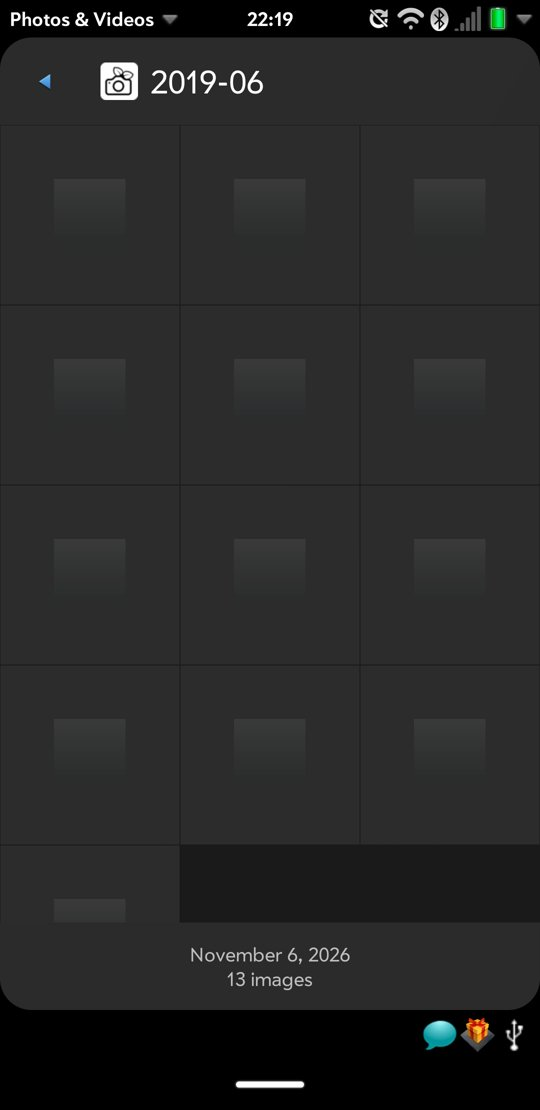
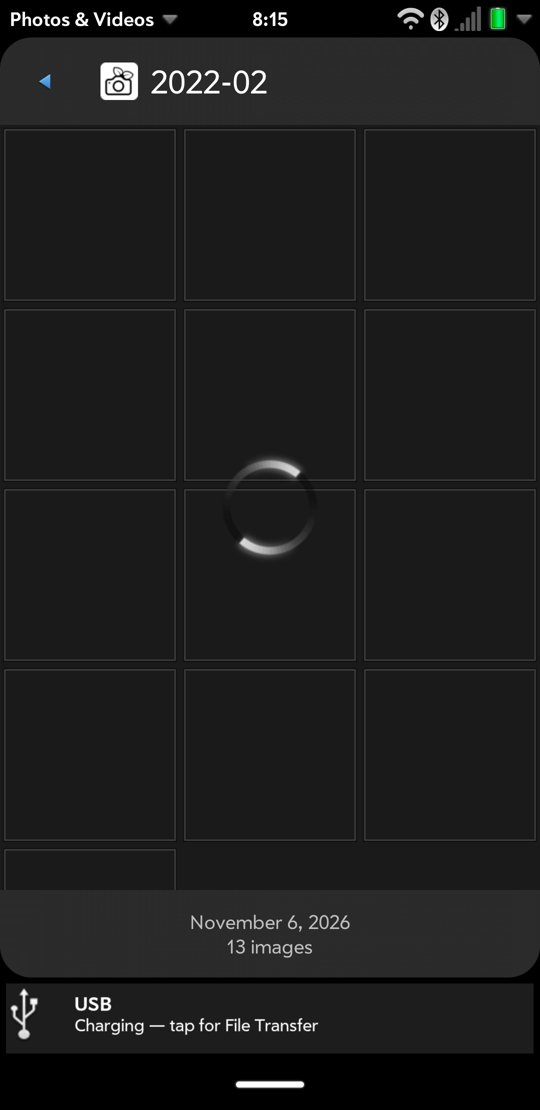
README: screenshots of the light Preferences page and the loading frames
The Preferences, size and clearing screenshots showed the dark page of
before, and the loading one grey tiles. They are now the light page,
its two lists open (the sizes that fit on sargo, up to 16 GB with
27 GB free, and how long an opened album stays), Clearing... while the
photos service works, and a month opening: the large spinner over a
frame for each of its 13 pictures. Taken on sargo against the 5.39 GB
PiGallery2 gallery.

diff --git a/README.md b/README.md
@@ -58,12 +58,12 @@ down and sends additions and deletions back up.
 | Pixel 3a, the same gallery with its covers | | | |
 |:---:|:---:|:---:|:---:|
 | ![Library](docs/screenshots/sargo-covers-library.jpg) | ![Year](docs/screenshots/sargo-covers-year.jpg) | ![Loading](docs/screenshots/sargo-covers-loading.jpg) | ![Month](docs/screenshots/sargo-covers-month.jpg) |
-| Years with the gallery's covers | Months not opened yet, each with its cover | One opened: a cell for each of its 13 pictures | Their previews in place |
+| Years with the gallery's covers | Months not opened yet, each with its cover | One opened: the large spinner over a frame for each of its 13 pictures | Their previews in place |
 
-| Pixel 3a, how much the cloud photos take | | | | |
-|:---:|:---:|:---:|:---:|:---:|
-| ![Preferences](docs/screenshots/sargo-storage-preferences.jpg) | ![Size](docs/screenshots/sargo-storage-size.jpg) | ![Keep](docs/screenshots/sargo-storage-keep.jpg) | ![Downloading](docs/screenshots/sargo-storage-downloading.jpg) | ![Clearing](docs/screenshots/sargo-storage-clearing.jpg) |
-| Preferences & Accounts: the whole pictures against the cap, kept albums, the rest | The cap: 100 MB to 2 GB | An album kept on the device, from the app menu | Its dashboard while it comes down, beside the USB one | Clearing the downloaded photos |
+| Pixel 3a, how much the cloud photos take | | | | | |
+|:---:|:---:|:---:|:---:|:---:|:---:|
+| ![Preferences](docs/screenshots/sargo-storage-preferences.jpg) | ![Size](docs/screenshots/sargo-storage-size.jpg) | ![How long](docs/screenshots/sargo-storage-expiry.jpg) | ![Keep](docs/screenshots/sargo-storage-keep.jpg) | ![Downloading](docs/screenshots/sargo-storage-downloading.jpg) | ![Clearing](docs/screenshots/sargo-storage-clearing.jpg) |
+| Preferences & Accounts: the whole pictures against the cap, kept albums, the rest | The cap: from 100 MB, the sizes that fit (16 GB here, with 27 GB free) | How long an opened album stays: 7 to 90 days, or never | An album kept on the device, from the app menu | Its dashboard while it comes down, beside the USB one | Clearing the downloaded photos |
 
 The Pixel 3a pictures are PiGallery2 3.5.2 test galleries', taken on the
 device; the rest of the walk down the tree (`sargo-subalbums-*.jpg`) and
